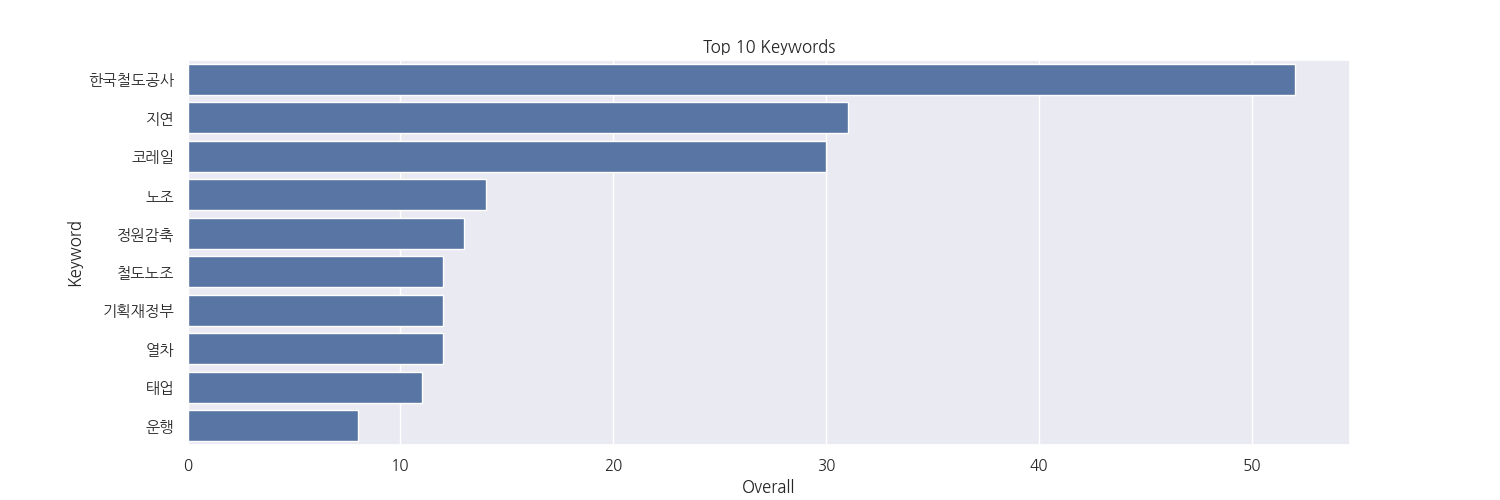
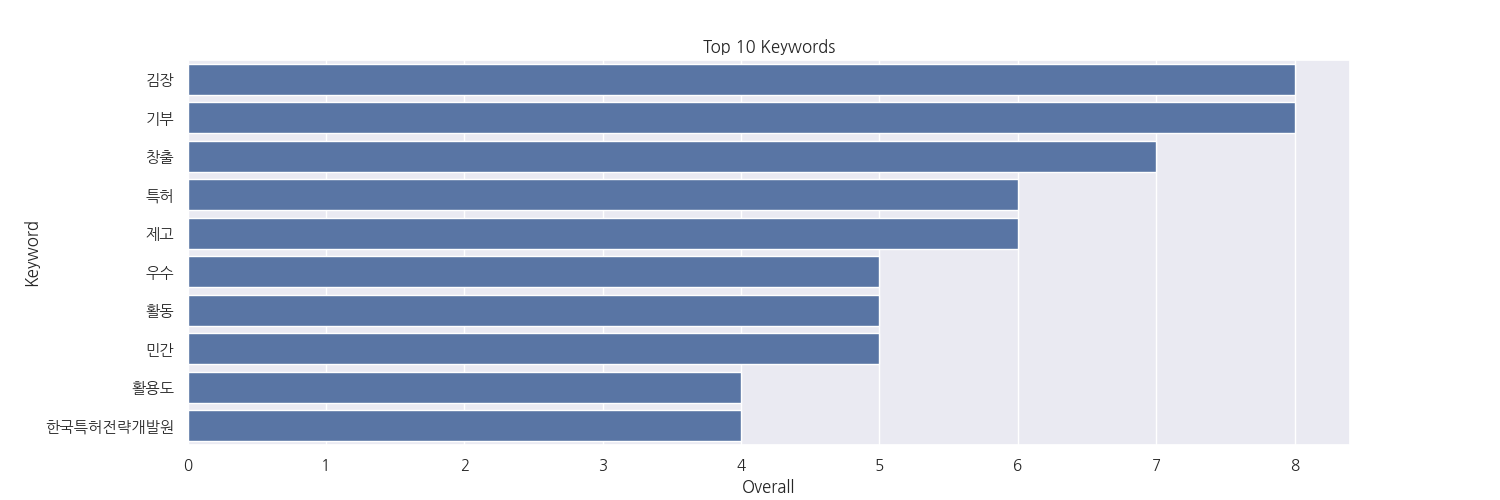
Fix : Change the Word Co-cuurence Network and Keyword duplication error

diff --git a/visualization/cocurrence.py b/visualization/cocurrence.py
@@ -55,6 +55,9 @@ def cocurrence_network(start_date, end_date, all_data):
     df = df[['word1', 'word2', 'num']]
     df['num'] = df['num'].astype(int)
     
+    #상위 10개만 추출
+    df = df.sort_values(by='num', ascending=False).head(15)
+    
     G = nx.Graph()
     
     for _, row in df.iterrows():
@@ -66,16 +69,23 @@ def cocurrence_network(start_date, end_date, all_data):
 
     d = dict(nx.degree(G))
     edges = G.edges()
-    weights = [G[u][v]['weight']/10 for u,v in edges]
+    weights = [G[u][v]['weight'] for u,v in edges]
+    max_weight = max(weights)
+    min_weight = min(weights)
+    weights = [(weight - min_weight + 1) / (max_weight - min_weight)
+               for weight in weights]
     
     # 노드 가중치 합 계산
     node_weights = {
         node: sum(data['weight'] for _, _, data in G.edges(node, data=True))
         for node in G.nodes()
     }
-
+    max_weight = max(node_weights.values())
+    min_weight = min(node_weights.values())
+    node_color = [(weight - min_weight ) / (max_weight - min_weight)
+                  for weight in node_weights.values()]   
     # 노드 크기 설정 (가중치 합에 비례)
-    node_size = [weight * 100 for weight in node_weights.values()]
+    node_size = [weight * 1000 for weight in node_weights.values()]
 
     nx.draw(G, pos_kkl, 
             with_labels=True, 
@@ -84,6 +94,8 @@ def cocurrence_network(start_date, end_date, all_data):
             nodelist=d.keys(),  
             width=weights, 
             edge_color='grey', #node_color=list(df_skills_stats['core_number']), cmap="coolwarm_r", 
+            node_color=node_color,
+            cmap="viridis",
             alpha=0.9,
             font_family='NanumGothic',
             font_size=9,
@@ -97,6 +109,7 @@ def cocurrence_network(start_date, end_date, all_data):
                 'verticalalignment': 'baseline',
                 'horizontalalignment': 'center'}, 
                 loc='center')
+    plt.colorbar(plt.cm.ScalarMappable(cmap="viridis"), ax=ax, label='Node weight')
     # Set edge color
     plt.gca().collections[0].set_edgecolor("#000000")
     plt.savefig('./image/cocurrence.png')

diff --git a/main.py b/main.py
@@ -37,7 +37,7 @@ def main():
             start_num = input("가져올 뉴스의 시작 위치를 입력하세요: ")
             sort = input("정렬 기준을 입력하세요(sim, date): ")
     
-            news_list = get_news(int(display_num), int(start_num), sort)
+            news_list, query = get_news(int(display_num), int(start_num), sort)
             for news in news_list:
                 discription = news['description']
                 pub_date = news['pubDate']
@@ -48,8 +48,8 @@ def main():
                 #print(type(keywords))
                 keyword2list = make_list(keywords)
         
-                update_db(keyword2list, date, all_data_list, collection)
-                update_network_db(keyword2list, date, all_pairs_list, collection1)
+                update_db(keyword2list, date, all_data_list, collection, query)
+                update_network_db(keyword2list, date, all_pairs_list, collection1, query)
                 
         elif select == '2':
             top10(all_data_list)

diff --git a/news/news.py b/news/news.py
@@ -8,7 +8,8 @@ CLIENT_SECRET = 'OA0TgaKfJZ'
 #query : 검색어, display : 출력할 뉴스의 수, start : 출력할 뉴스의 시작 위치, sort : 정렬 기준(sim, date)
 def get_news(display_num : int, statrt_num : int, sort : str) -> List[dict]:
     url = "https://openapi.naver.com/v1/search/news.json?"
-    query ="query=한국철도공사"
+    Keyword = "한국철도공사"
+    query ="query=" + Keyword
     #display = "&display=10"
     display = "&display=" + str(display_num)
     #start = "&start=1"
@@ -27,6 +28,7 @@ def get_news(display_num : int, statrt_num : int, sort : str) -> List[dict]:
     news = response.json()
     news_list = []
     
+    print(news)
     for item in news['items']:
         a_news = {
             'title': item['title'],
@@ -38,7 +40,7 @@ def get_news(display_num : int, statrt_num : int, sort : str) -> List[dict]:
         news_list.append(a_news)
     
     # print(item.keys())
-    return news_list
+    return news_list, Keyword
 
 
 # print(get_news())

diff --git a/visualization/make_wordcloud.py b/visualization/make_wordcloud.py
@@ -30,16 +30,22 @@ def word_cloud(all_data : list):
     for word in wc:
         wc[word] = wc[word] / max_num
     
+    # 상위20개만 추출
+    wc = dict(sorted(wc.items(), key=lambda x: x[1], reverse=True)[:30])
+    
+    # 
+    
+    
     stopwords = set(STOPWORDS)
     stopwords.add('한국철도공사')
     
-    text = ' '.join([f"{word} " * int(freq * 10) for word, freq in wc.items()])
+    #text = ' '.join([f"{word} " * int(freq * 10) for word, freq in wc.items()])
     wordcloud = WordCloud(background_color= 'white',
                           #font_path='NanumGothic.ttf',
                           font_path = font_path,
                           max_words=200,
                           stopwords=stopwords,
-                          ).generate(text)
+                          ).generate_from_frequencies(wc)
     #wordcloud.generate_from_frequencies(wc)
     
     plt.figure(figsize=(20, 20))

diff --git a/database/schema1.py b/database/schema1.py
@@ -13,9 +13,12 @@ def get_all_network(all_data) -> List[dict]:
     return all_network_list
     
 
-def update_network_db(new_keywords : list, date : str, all_data : list, collection):
+def update_network_db(new_keywords : list, date : str, all_data : list, collection, query):
     #for words in new_keywords:
     words_ = list(set(new_keywords))
+    if query in words_:
+        words_.remove(query)
+        
     for i in range(len(words_) - 1):
         for j in range(i + 1, len(words_)):
             found = False

diff --git a/database/schema.py b/database/schema.py
@@ -11,8 +11,10 @@ def get_all_data(all_data) -> List[dict]:
         all_data_list.append(a_data)
     return all_data_list
 
-def update_db(new_keywords : list, date : str, all_data : list, collection):
+def update_db(new_keywords : list, date : str, all_data : list, collection, query):
     for keyword in new_keywords:
+        if keyword == query:
+            continue
         found = False
         for data in all_data:
             if data['date'] == date and data['keyword'] == keyword:
